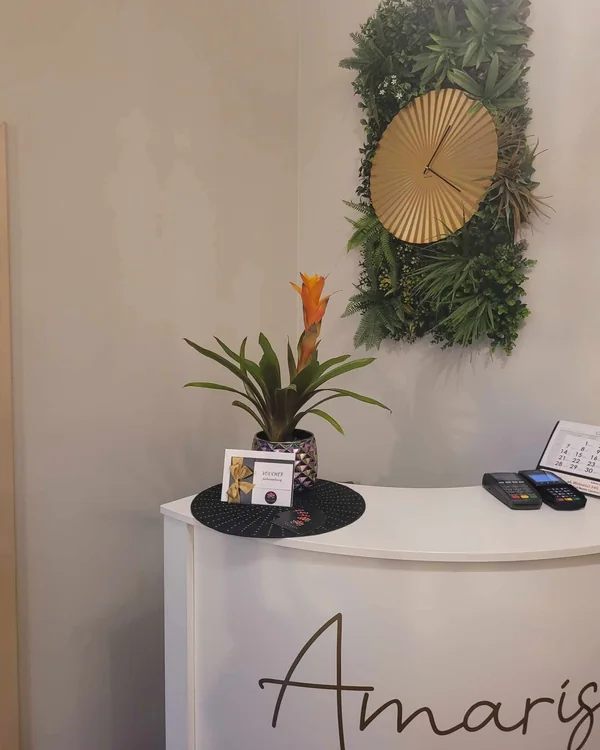
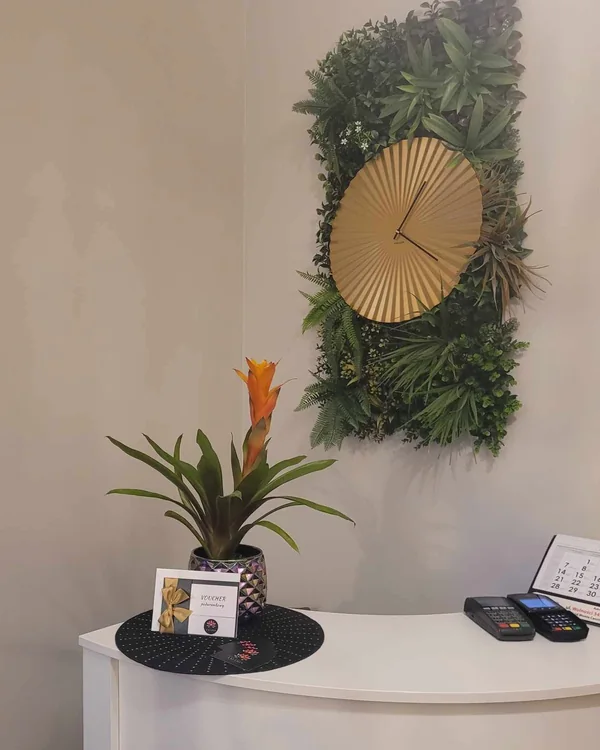
Usuń białą ramkę kart kategorii i ucięty napis na zdjęciu recepcji
- .kategoria__foto::after (cienki biały łuk w kartach kategorii) usunięte
  na życzenie klientki — .pieczec::after (obwódka 92%) bez zmian.
- Przegenerowane hero-*.webp i wnetrze-*.webp ze źródłowego zdjęcia
  recepcji: oryginalna fotografia fizycznie kadruje napis "Amaris" na
  samej krawędzi (ostatnia litera "s" dotyka brzegu kadru aparatu), więc
  nie dało się go domieścić w całości bez dorabiania pikseli. Nowy kadr
  świadomie pomija napis (widać zegar, roślinę, voucher, terminal), tak
  jak dopuszczało zlecenie. Poprawiony alt tekst w index.html i 404.html.

diff --git a/index.html b/index.html
@@ -63,7 +63,7 @@
       <p class="status hero__status" data-status data-stan="nieznany"><span class="status__kropka" aria-hidden="true"></span><span class="status__tekst">Pn–pt 10:00–18:00, wybrane soboty 9:00–14:00</span></p>
     </div>
     <div class="hero__foto">
-      <div class="luk-rama"><div class="luk"><picture><source media="(max-width: 899px)" srcset="assets/img/hero-szer-800.webp 800w, assets/img/hero-szer-1400.webp 1400w" sizes="calc(100vw - 54px)" width="800" height="533"><img src="assets/img/hero-720.webp" srcset="assets/img/hero-600.webp 600w, assets/img/hero-720.webp 720w, assets/img/hero-1000.webp 1000w, assets/img/hero-1200.webp 1200w" sizes="(min-width: 1240px) 520px, 42vw" width="720" height="900" alt="Recepcja salonu Amaris – blat z&nbsp;napisem Amaris, złoty zegar na&nbsp;zielonej ścianie i&nbsp;voucher podarunkowy" fetchpriority="high"></picture></div></div>
+      <div class="luk-rama"><div class="luk"><picture><source media="(max-width: 899px)" srcset="assets/img/hero-szer-800.webp 800w, assets/img/hero-szer-1400.webp 1400w" sizes="calc(100vw - 54px)" width="800" height="533"><img src="assets/img/hero-720.webp" srcset="assets/img/hero-600.webp 600w, assets/img/hero-720.webp 720w, assets/img/hero-1000.webp 1000w, assets/img/hero-1200.webp 1200w" sizes="(min-width: 1240px) 520px, 42vw" width="720" height="900" alt="Recepcja salonu Amaris – złoty zegar na&nbsp;zielonej ścianie, kwiat i&nbsp;voucher podarunkowy na&nbsp;blacie" fetchpriority="high"></picture></div></div>
       <a class="pieczec" href="opinie.html">
         <svg class="pieczec__krag" viewBox="0 0 120 120" aria-hidden="true" focusable="false"><defs><path id="pieczec-gora" d="M18.65 75.05A44 44 0 1 1 101.35 75.05"/><path id="pieczec-dol" d="M13.02 77.1A50 50 0 0 0 106.98 77.1"/></defs><text text-anchor="middle"><textPath href="#pieczec-gora" startOffset="50%" textLength="150" lengthAdjust="spacing">POLECA NAS NA FACEBOOKU</textPath></text><text text-anchor="middle"><textPath href="#pieczec-dol" startOffset="50%">· 47&nbsp;OPINII ·</textPath></text></svg>
         <span class="pieczec__liczba">92<small>%</small></span>

diff --git a/404.html b/404.html
@@ -53,7 +53,7 @@
 <main id="tresc">
 <section class="blad" aria-labelledby="h-404">
   <div class="wrap blad__siatka">
-    <div class="blad__foto luk-rama"><div class="luk"><img src="assets/img/hero-600.webp" srcset="assets/img/hero-600.webp 600w, assets/img/hero-1000.webp 1000w" sizes="(min-width: 900px) 320px, 46vw" width="600" height="750" alt="Recepcja salonu Amaris – blat z&nbsp;napisem Amaris, złoty zegar na&nbsp;zielonej ścianie i&nbsp;voucher podarunkowy" fetchpriority="high"></div></div>
+    <div class="blad__foto luk-rama"><div class="luk"><img src="assets/img/hero-600.webp" srcset="assets/img/hero-600.webp 600w, assets/img/hero-1000.webp 1000w" sizes="(min-width: 900px) 320px, 46vw" width="600" height="750" alt="Recepcja salonu Amaris – złoty zegar na&nbsp;zielonej ścianie, kwiat i&nbsp;voucher podarunkowy na&nbsp;blacie" fetchpriority="high"></div></div>
     <div class="blad__tekst">
       <div class="orn " aria-hidden="true"><span></span><svg class="orn__znak" viewBox="0 0 24 24" aria-hidden="true" focusable="false"><path d="M12 3c-2.2 3.4-3.4 5.6-3.4 7.4a3.4 3.4 0 0 0 6.8 0C15.4 8.6 14.2 6.4 12 3z" fill="currentColor"/><path d="M5 21v-6a7 7 0 0 1 14 0v6" fill="none" stroke="currentColor" stroke-width=".9"/></svg><span></span></div>
       <h1 id="h-404">Tej strony <em>tu nie ma</em></h1>

diff --git a/assets/css/amaris.css b/assets/css/amaris.css
@@ -336,7 +336,6 @@ main { display: block; padding-bottom: var(--sekcja); }
 .kategoria__foto { grid-column: 1 / -1; position: relative; display: block; aspect-ratio: 4 / 5; overflow: hidden; border-radius: var(--luk); background: var(--tlo-2); }
 .kategoria__foto img { width: 100%; height: 100%; object-fit: cover; }
 .kategoria__foto::before { content: ''; position: absolute; inset: 0; z-index: 1; background: var(--akcent-ciemny); opacity: 0; transition: opacity .45s var(--ease); }
-.kategoria__foto::after { content: ''; position: absolute; inset: 8px; z-index: 1; border: 1px solid rgba(251, 248, 243, .6); border-radius: var(--luk); }
 .kategoria__nr { margin-top: 16px; font: italic 500 18px/1 var(--serif); color: var(--mosiadz-tekst); }
 .kategoria__tytul {
   display: flex; align-items: center; justify-content: space-between; gap: 8px; margin-top: 16px;
